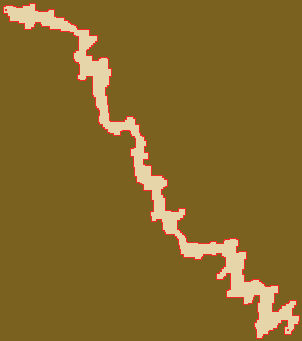
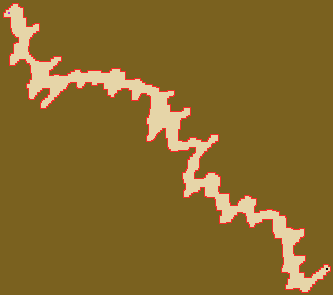
fix: bug during polygone scan

Changed region(s): [[0.0, 0.0, 1.0, 1.0]]

diff --git a/src/area_gen/mod.rs b/src/area_gen/mod.rs
@@ -29,9 +29,9 @@ pub struct Shape {
 pub fn generate_area(map_index: usize) -> AreaGenerationOutput {
     // Create random generator from seed
     // fixed seed
-    // let seed: u64 = 142857;
+    let seed: u64 = 8863375687041853504;
     // random seed
-    let seed: u64 = rand::random();
+    // let seed: u64 = rand::random();
 
     let mut maps = floor_pattern::define_floor_patterns();
     //------------------------------------------------------//
@@ -103,6 +103,8 @@ fn find_oob_polygons(grid: &mut Grid) -> Vec<Shape> {
             for y in 1..grid[0].len() - 1 {
                 if !grid[x][y].scanned
                     && grid[x][y].tile_type != TileType::Floor
+                    && grid[x][y].tile_type != TileType::Boss
+                    && grid[x][y].tile_type != TileType::Start
                     && (grid[x + 1][y].tile_type == TileType::Floor
                         || grid[x - 1][y].tile_type == TileType::Floor
                         || grid[x][y + 1].tile_type == TileType::Floor
@@ -133,8 +135,9 @@ fn find_oob_polygone(
 
     let mut dir = start_dir;
     let mut next_dir = dir;
+    let mut first_polygone_first_point = (0, 0);
     // continue tracing until we come back where to the first corner
-    while !tile_polygone.contains(&current_pos) {
+    while current_pos != first_polygone_first_point {
         // if current dir is down
         if dir == (0, 1) {
             // right is floor
@@ -262,16 +265,15 @@ fn find_oob_polygone(
             }
         }
         dir = next_dir;
+        // store break condition
+        if tile_polygone.len() == 1 {
+            first_polygone_first_point = current_pos;
+        }
         // flag current point to avoid scanning this polygon again later
         grid[current_pos.0 as usize][current_pos.1 as usize].scanned = true;
         // move to next point
         current_pos.0 += dir.0;
         current_pos.1 += dir.1;
-    }
-
-    // for debuging only
-    for point in tile_polygone {
-        grid[point.0 as usize][point.1 as usize].tile_type = TileType::Angle;
     }
 
     px_polygone

diff --git a/src/main.rs b/src/main.rs
@@ -7,7 +7,7 @@ fn main() {
     let mut handlers = Vec::new();
 
     // roll each maps in a sperate thread
-    for i in 0..5 {
+    for i in 0..1 {
         handlers.push(thread::spawn(move || {
             generate_area(i);
         }));
